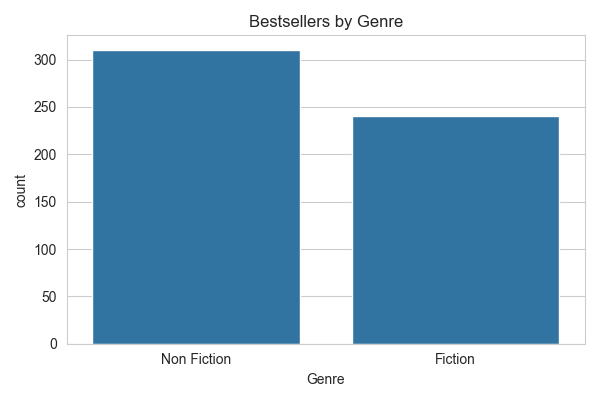
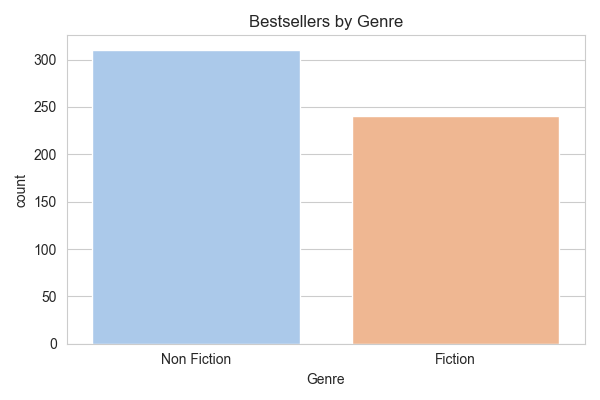
Organize project: final folder structure, move files, add outputs

diff --git a/analysis/analysis.py b/analysis/analysis.py
@@ -1,0 +1,88 @@
+# analysis.py
+
+import pandas as pd
+import matplotlib.pyplot as plt
+import seaborn as sns
+import os
+
+# --- Setup paths ---
+data_path = os.path.join("data", "bestsellers_with_categories.csv")
+output_dir = "outputs"
+os.makedirs(output_dir, exist_ok=True)
+
+# --- Load dataset ---
+books = pd.read_csv(data_path)
+
+# --- Basic info ---
+print("=== First 5 rows ===")
+print(books.head(), "\n")
+
+print("=== Dataset Info ===")
+print(books.info(), "\n")
+
+print("=== Top 10 Authors ===")
+print(books['Author'].value_counts().head(10), "\n")
+
+print("=== Bestseller Count by Genre ===")
+print(books['Genre'].value_counts(), "\n")
+
+print("=== Bestsellers per Year ===")
+print(books.groupby('Year').size(), "\n")
+
+print("=== Top 10 Books by Reviews ===")
+print(books.sort_values('Reviews', ascending=False)[['Name','Author','Reviews','User Rating','Genre']].head(10), "\n")
+
+# --- Visualizations ---
+sns.set_style("whitegrid")
+
+# 1⃣ Top 10 Authors
+plt.figure(figsize=(10,5))
+sns.countplot(
+    y='Author',
+    data=books,
+    order=books['Author'].value_counts().head(10).index,
+    palette='viridis'
+)
+plt.title("Top 10 Authors by Bestseller Count")
+plt.tight_layout()
+plt.savefig(os.path.join(output_dir, "top_authors.png"))
+plt.show()
+
+# 2⃣ Genre Distribution
+plt.figure(figsize=(6,4))
+sns.countplot(x='Genre', data=books, palette='pastel')
+plt.title("Bestsellers by Genre")
+plt.tight_layout()
+plt.savefig(os.path.join(output_dir, "genre_distribution.png"))
+plt.show()
+
+# 3⃣ Yearly Trend of Bestsellers
+plt.figure(figsize=(10,5))
+books.groupby('Year').size().plot(kind='line', marker='o', color='tomato')
+plt.title("Number of Bestsellers per Year")
+plt.xlabel("Year")
+plt.ylabel("Count")
+plt.tight_layout()
+plt.savefig(os.path.join(output_dir, "yearly_trends.png"))
+plt.show()
+
+# 4⃣ User Rating vs Reviews
+plt.figure(figsize=(8,6))
+sns.scatterplot(x='Reviews', y='User Rating', hue='Genre', data=books, s=100, alpha=0.7)
+plt.title("User Rating vs Reviews by Genre")
+plt.tight_layout()
+plt.savefig(os.path.join(output_dir, "rating_vs_reviews.png"))
+plt.show()
+
+# 5⃣ Average Price by Genre
+plt.figure(figsize=(6,4))
+books.groupby('Genre')['Price'].mean().plot(kind='bar', color='skyblue')
+plt.title("Average Price by Genre")
+plt.ylabel("Average Price ($)")
+plt.tight_layout()
+plt.savefig(os.path.join(output_dir, "avg_price_by_genre.png"))
+plt.show()
+
+print(f"\n✅ Analysis complete! Plots saved in: {output_dir}/")
+
+
